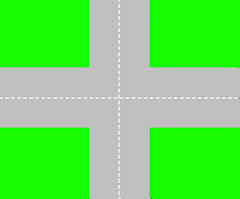
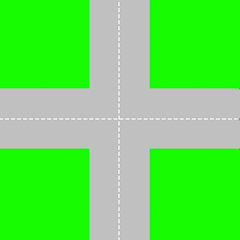
changed layout to gridbaglayout added borders to junction labels added display number to junction labels changed images to squares

diff --git a/src/streetnetwork/gui/StreetViewGUI.java b/src/streetnetwork/gui/StreetViewGUI.java
@@ -6,13 +6,13 @@
 package streetnetwork.gui;
 
 import java.awt.Frame;
+import java.awt.GridBagConstraints;
+import java.awt.GridBagLayout;
 import java.awt.GridLayout;
 import java.awt.event.ActionEvent;
 import java.awt.event.ActionListener;
 import java.awt.event.InputEvent;
 import java.awt.event.KeyEvent;
-import java.awt.event.MouseAdapter;
-import java.awt.event.MouseEvent;
 import javax.swing.GroupLayout;
 import javax.swing.JMenu;
 import javax.swing.JMenuBar;
@@ -252,17 +252,31 @@ public class StreetViewGUI extends javax.swing.JFrame implements NewStreetNetwor
     // End of variables declaration//GEN-END:variables
 
     @Override
-    public void didEnterDimensions(int x, int y)
+    public void didEnterDimensions(int rows, int columns)
     {
-        this.dropPanel.setLayout(new GridLayout(x,y));
+        //this.dropPanel.setLayout(new GridLayout(x,y));
+        this.dropPanel.setLayout(new GridBagLayout());
         this.scrollPane.add(this.dropPanel);
         this.scrollPane.setViewportView(this.dropPanel);
-        for (int i = 0; i < x*y; i++)
+        
+        GridBagConstraints gbc = new GridBagConstraints();
+        gbc.fill = GridBagConstraints.BOTH;
+        gbc.anchor = GridBagConstraints.CENTER;
+        int number = 0;
+        for (int row = 0; row < rows; row++)
         {
-            JunctionLabel junction = new JunctionLabel();
-            junction.setNumber(i);
-            this.dropPanel.add(junction);
+            for (int column = 0; column < columns; column++)
+            {
+                System.out.print("column "+column);
+                System.out.println(" row "+row);
+                gbc.gridx = column;
+                gbc.gridy = row;
+                JunctionLabel junction = new JunctionLabel(number++);
+                //junction.setNumber(row);
+                this.dropPanel.add(junction,gbc);
+            }
         }
+        
         this.dropPanel.setVisible(true);
         this.repaint();
         this.revalidate();

diff --git a/src/streetnetwork/gui/JunctionLabel.java b/src/streetnetwork/gui/JunctionLabel.java
@@ -5,6 +5,8 @@ import java.awt.event.MouseListener;
 import java.net.URL;
 import javax.swing.ImageIcon;
 import javax.swing.JLabel;
+import javax.swing.border.Border;
+import javax.swing.border.LineBorder;
 import streetnetwork.gui.popups.JunctionSettingsDialog;
 import streetnetwork.viewmodels.Junction;
 
@@ -18,12 +20,17 @@ public class JunctionLabel extends JLabel implements MouseListener
     private boolean active;
     private int number;
     
-    public JunctionLabel()
+    public JunctionLabel(int number)
     {
         URL resource = this.getClass().getResource("images/junction_inactive.png");
         this.setIcon(new ImageIcon(resource));
         this.active = false;
         this.addMouseListener(this);
+        this.number = number;
+        this.setIconTextGap(-230);
+        this.setText(""+number);
+        this.setVerticalTextPosition(JLabel.TOP);
+        this.setBorder(LineBorder.createBlackLineBorder());
     }
 
     public Junction getJunction()
